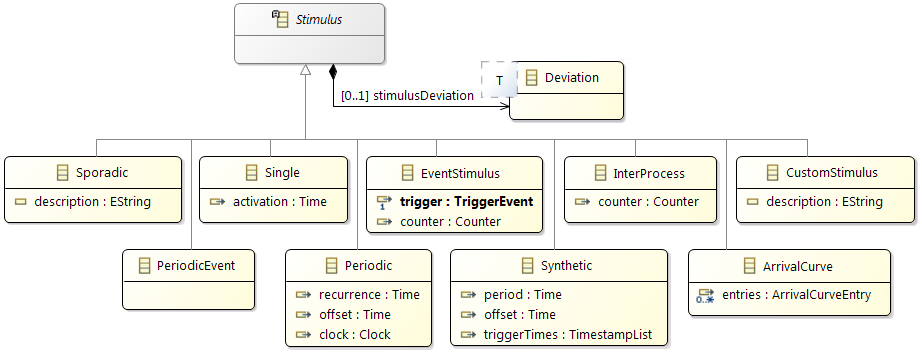
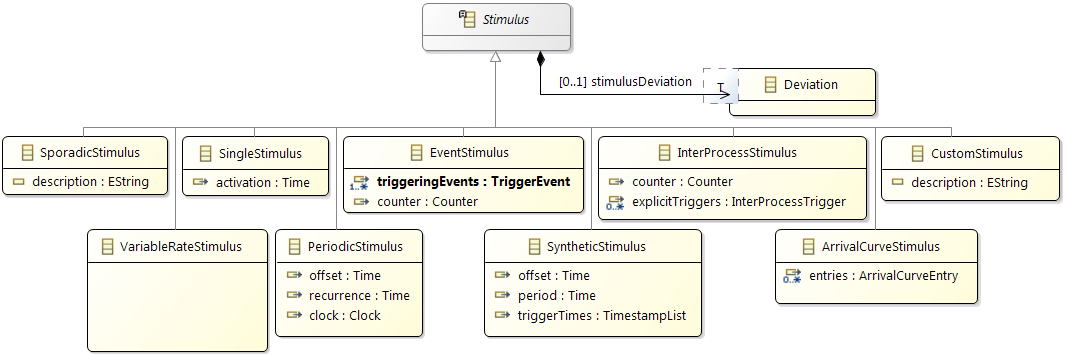
[519930] Updated help: comments, diagrams, text

Changed region(s): [[0.0, 0.1554, 1.0, 0.9944], [0.243, 0.0, 0.5466, 0.2175], [0.2733, 0.0, 0.3644, 0.0932]]

diff --git a/plugins/org.eclipse.app4mc.amalthea.model/src-gen/org/eclipse/app4mc/amalthea/model/SyntheticStimulus.java b/plugins/org.eclipse.app4mc.amalthea.model/src-gen/org/eclipse/app4mc/amalthea/model/SyntheticStimulus.java
@@ -19,7 +19,7 @@ package org.eclipse.app4mc.amalthea.model;
  * <!-- end-user-doc -->
  *
  * <!-- begin-model-doc -->
- * Activations triggered depending on a defined list of trigger times
+ * Stimulus triggered depending on a defined list of trigger times
  * offset: to shift the occurrences in negative or positive direction on the time bar
  * period: to set the period, after which the trigger times are to be repeated
  * triggerTimes: the list of all trigger times

diff --git a/plugins/org.eclipse.app4mc.amalthea.model/src-gen/org/eclipse/app4mc/amalthea/model/PeriodicStimulus.java b/plugins/org.eclipse.app4mc.amalthea.model/src-gen/org/eclipse/app4mc/amalthea/model/PeriodicStimulus.java
@@ -19,7 +19,7 @@ package org.eclipse.app4mc.amalthea.model;
  * <!-- end-user-doc -->
  *
  * <!-- begin-model-doc -->
- * This activates a task periodically
+ * Stimulus that is triggered periodically
  * offset: Time of first activation
  * recurrence: Time between following activations
  * clock: Time base which defines deviation of time, multiple stimuli can have the same time base

diff --git a/plugins/org.eclipse.app4mc.amalthea.model/src-gen/org/eclipse/app4mc/amalthea/model/VariableRateStimulus.java b/plugins/org.eclipse.app4mc.amalthea.model/src-gen/org/eclipse/app4mc/amalthea/model/VariableRateStimulus.java
@@ -19,7 +19,7 @@ package org.eclipse.app4mc.amalthea.model;
  * <!-- end-user-doc -->
  *
  * <!-- begin-model-doc -->
- * Periodic avtivation based on other events, like rotation speed dependency
+ * Periodic stimulus based on other events, like rotation speed
  * <!-- end-model-doc -->
  *
  *
